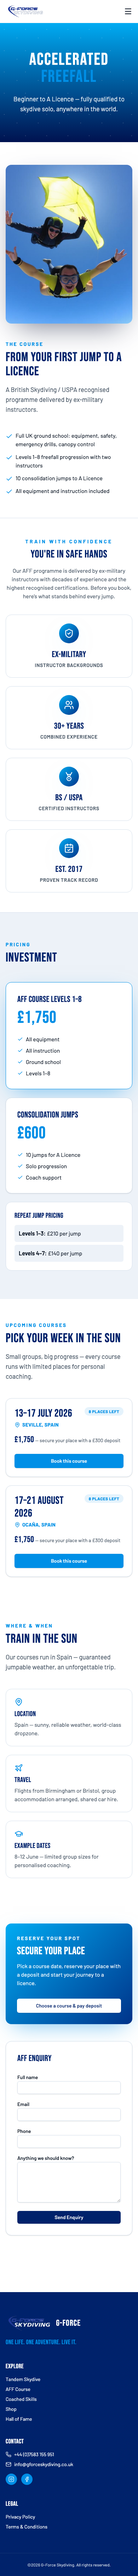
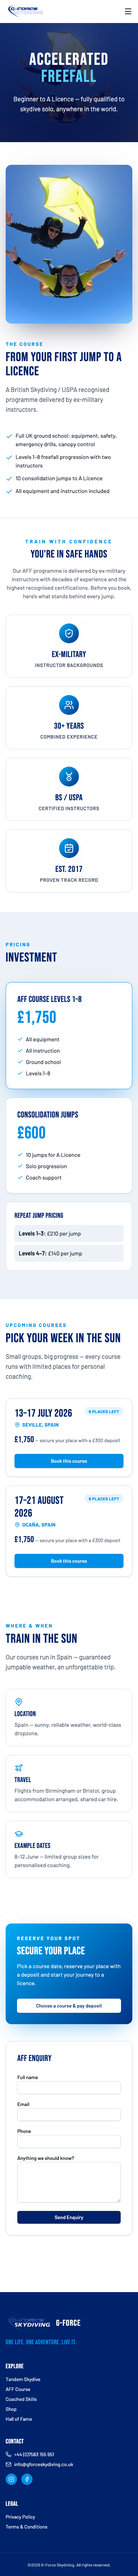
chore(design): final pass — SUMMARY.md, after screenshots, rule note reverted
Session summary (design/visual-polish): frontend-backend alignment closed
M1-M7 (direct tandem + AFF deposit booking with capacity-safe holds,
public course dates, real newsletter, coaching enquiries with context,
gift voucher surface, flow-aware payment pages, branded 404) and a
visual pass fixed the hero contrast/photography/CTA problems identified
in the audit. M8 (course communications) deliberately deferred and
documented. Four real bugs found by walking the site in a browser are
fixed. 132 tests / 547 assertions green; all 15 public routes smoke-
tested twice on the real Redis cache; pint + phpstan level 6 clean.

Changed region(s): [[0.0, 0.0, 1.0, 0.0625]]

diff --git a/design-review/SUMMARY.md b/design-review/SUMMARY.md
@@ -1,0 +1,72 @@
+# Design review summary — design/visual-polish
+
+Evidence: `before/` and `after/` screenshots (1440 / 390, plus 768 and `-hero`
+viewport shots where relevant). Tooling: Playwright driven via Node
+(`shoot.mjs`, `shoot-all.mjs`, `walk-tandem.mjs`) because the Playwright MCP
+server was not reachable from this session; every shot also captures console
+errors and failed requests, and the booking flow was walked interactively on a
+390px viewport.
+
+## Frontend–backend mismatches: closed vs left
+
+| # | Mismatch | Outcome |
+|---|---|---|
+| M1 | Tandem payment was a placeholder toast; availability invisible | **Closed** — `/book/tandem`: 3-step flow (slot picker with live places, full customer/emergency/medical details + add-ons, review with price breakdown, Stripe). Capacity locked under concurrency; holds released on abandon. |
+| M2 | No AFF course dates anywhere; deposit was a toast | **Closed** — CourseDate domain + admin (enrolment view with payment states), public course cards on /aff, `/book/aff` deposit flow with balance tracked. |
+| M3 | Fake newsletter forms | **Closed** — NewsletterSubscriber + Livewire component (banner/card variants), admin list. |
+| M4 | Coaching had no enquiry path with context | **Closed** — /coached enquiry form (discipline, jumps, licence, goals) into the existing inbox. |
+| M5 | Vouchers invisible publicly | **Closed** — CMS-editable gift voucher box on /tandem. Full public voucher checkout deliberately not built (admin-issued flow already exists; a public purchase flow is a future piece). |
+| M6 | Generic payment result pages | **Closed** — success page resolves the Stripe session: booking reference, date/course, amount, balance, what-happens-next, processing state; cancelled page returns the customer to the right flow. |
+| M7 | Unbranded 404 | **Closed** — site layout, hero treatment, three useful destinations. |
+| M8 | Course communications / document library (Round 2 Part C6) | **Deliberately left** — admin tooling rather than customer-facing alignment; superseded mid-run by this design brief. Logged in DECISIONS.md; the CourseDate enrolment view (emails/payment states per student) covers the day-one need. |
+
+## Page-by-page
+
+- **Global** (`feat(design): photographic page heroes…`): sky gradient darkened
+  (top was too light for any accent text); page-hero now accents only the LAST
+  title word in a light sky tone (AA on the dark backdrop) instead of every
+  other word in mid-blue; marketing pages (tandem/AFF/coached) take full-bleed
+  CMS-managed hero photos behind a dark overlay; transactional pages keep the
+  calmer gradient on purpose. Evidence: `before/tandem-1440.png` vs
+  `after/tandem-390-hero.png`.
+- **Home**: hero CTAs enlarged (h-14, scale hover) and eyebrow switched to the
+  accent tone + drop shadow — it was mid-blue on sky photography. Newsletter
+  banner now actually subscribes. `before/home-1440-hero.png` → `after/home-1440-hero.png`.
+- **Tandem**: photo hero; booking pay-card links into the real flow; gift
+  voucher box added. `before/tandem-1440.png` → `after/tandem-1440.png`.
+- **AFF**: photo hero; upcoming-courses section (dates, location, price,
+  deposit, places-left badges, book buttons); pay-card → deposit flow.
+  `before/aff-1440.png` → `after/aff-1440.png`.
+- **Coached**: photo hero; "Book a session" now scrolls to a real coaching
+  enquiry form. `after/coached-*.png`.
+- **Booking flows** (new): step indicator, inline validation, add-on picker,
+  review with full price breakdown, reassurance microcopy, Stripe-handled
+  payment note; mobile-first. Walked interactively: `after/book-tandem-step2-390.png`,
+  `-step3-390.png`, `-step3-error-390.png` (inline error state).
+- **Payment success/cancelled**: booking summary card + next-steps panel /
+  flow-aware retry. `before/payment-success-1440.png` → `after/payment-success-*.png`.
+- **404**: branded. `before/404-1440.png` → `after/404-390.png`.
+- **Shop / Testimonials / Hall of Fame / Contact / Legal**: inherit the global
+  hero contrast fix; layouts were already sound, deliberately left otherwise
+  (no identified problem to fix — avoiding change for its own sake).
+
+## Deliberately NOT changed
+
+- Card style, radius and shadow language — already consistent site-wide.
+- The enquiry forms' toast-based feedback (original UX, still appropriate);
+  only the new booking flows use inline errors, where money is involved.
+- Brand palette and logo untouched; the "fire-gradient" legacy class names kept
+  (renaming is churn with no user-facing value).
+- Public voucher purchase and course communications (see M5/M8).
+
+## Bugs found by the visual loop (fixed, with tests where applicable)
+
+1. Empty Stripe keys 500'd the whole booking flow at DI time (StripeClient
+   constructor throws on '') — bound with null api_key; flows now degrade with
+   a friendly message and release the hold.
+2. Livewire 4 reserves `$slots` in component views (SlotProxy) — collided with
+   the slot picker's variable.
+3. Tailwind only scanned compiled views, so brand-new templates lost their
+   utilities until a visit-then-rebuild cycle — `@source '../views'` added.
+4. Stale spatie settings cache 500s when settings classes gain properties —
+   `settings:clear-cache` documented as a deploy step.

diff --git a/CLAUDE.md b/CLAUDE.md
@@ -7,14 +7,10 @@ that manages all site content, enquiries, payments and bookings.
 - Source app (reference only, do not modify): `../thrill-seek-co` (Vite + React + TS + Tailwind + shadcn/ui).
 - Stack: Laravel 13 + Blade + Tailwind + Alpine.js + Livewire 4 + Filament v5,
   spatie/laravel-settings, spatie/laravel-activitylog, stripe/stripe-php, resend/resend-laravel.
-- **TEMPORARY (design/visual-polish branch only): the pixel-identical preservation
-  rule is suspended.** This session may change spacing, typography, colour usage,
-  layout and animation, and add pages/sections/fields — while keeping brand identity,
-  core business logic (payments, webhooks, conversion, capacity) and CMS-driven
-  content. Revert this note at the end of the session.
-- (Suspended this session — normally: the frontend design is DONE and verified. Do not
-  redesign it — preserve the existing look, Tailwind classes and animations exactly.
-  Content is dynamic; markup is sacred.)
+- The frontend design is established and verified (last revised on the
+  design/visual-polish branch — see design-review/SUMMARY.md). For functional work,
+  preserve the existing look, Tailwind classes and animations; design changes need an
+  explicit design brief.
 
 ## What's built (see DECISIONS.md for the why, SETUP.md for ops)
 - **CMS**: every public page reads from settings groups (`app/Settings`, one Filament
